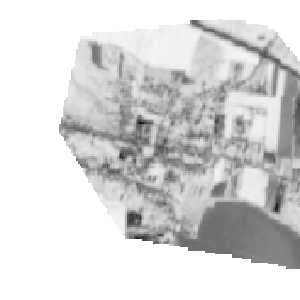
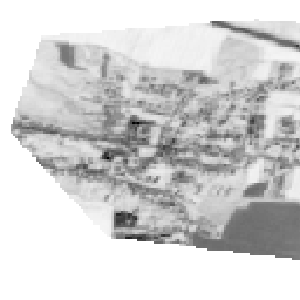
Normalize raster in native CRS

diff --git a/tests/static_data/__init__.py b/tests/static_data/__init__.py
@@ -284,7 +284,7 @@ PUBLICATIONS = {
             {'file_paths': ['sample/layman.layer/sample_tif_rgba_4326.tif', ]},
         ],
         TEST_DATA: {
-            'bbox': (1679391.075, 6562360.437, 1679416.269, 6562381.831),
+            'bbox': (1679391.075, 6562360.443, 1679416.256, 6562381.831),
             'file_extensions': ['.tif'],
             'normalized_color_interp': ['Red', 'Green', 'Blue', 'Alpha'],
             'thumbnail': '/code/test_tools/data/thumbnail/raster_layer_tif_rgba_4326.png',
@@ -343,7 +343,7 @@ PUBLICATIONS = {
             {'file_paths': ['sample/layman.layer/sample_tif_colortable_nodata_opaque_4326.tif']},
         ],
         TEST_DATA: {
-            'bbox': (868376.00, 522145.76, 940600.68, 593255.00),
+            'bbox': (868375.99, 522100.63, 940557.77, 593254.99),
             'file_extensions': ['.tif'],
             'normalized_color_interp': ['Palette'],
             'thumbnail': '/code/test_tools/data/thumbnail/raster_layer_tif_colortable_nodata_opaque_4326.png',
@@ -383,7 +383,7 @@ PUBLICATIONS = {
             {'file_paths': ['sample/layman.layer/sample_tif_grayscale_alpha_nodata_4326.tif']},
         ],
         TEST_DATA: {
-            'bbox': (1823049.06, 6309995.31, 1826920.44, 6312703.75),
+            'bbox': (1823049.05, 6310001.12, 1826924.71, 6312703.74),
             'file_extensions': ['.tif'],
             'normalized_color_interp': ['Gray', 'Alpha'],
             'thumbnail': '/code/test_tools/data/thumbnail/raster_layer_tif_grayscale_alpha_nodata_4326.png',

diff --git a/src/layman/layer/filesystem/gdal.py b/src/layman/layer/filesystem/gdal.py
@@ -235,30 +235,19 @@ def normalize_raster_file_async(input_path, crs_id, output_file):
             bash_args.extend([
                 '-co', 'ALPHA=YES',
             ])
-    # if output EPSG is the same as input EPSG, set pixel size (-tr) explicitly to the value of input
-    input_crs_equals_output_crs = crs_id == "EPSG:3857" or \
-        (crs_id is None and input_file.get_raster_crs_id(input_path) == "EPSG:3857")
-    if input_crs_equals_output_crs:
-        pixel_size = get_pixel_size(input_path)
-        tr_list = [str(ps) for ps in pixel_size]
-        tr_list.insert(0, '-tr')
-        bash_args.extend(tr_list)
+    pixel_size = get_pixel_size(input_path)
+    tr_list = [str(ps) for ps in pixel_size]
+    tr_list.insert(0, '-tr')
+    bash_args.extend(tr_list)
     if crs_id is not None:
         bash_args.extend([
             '-s_srs', f'{crs_id}',
         ])
-    # resampling method
-    if input_crs_equals_output_crs:
-        resampling_method = 'nearest'
-    elif color_interp == ['Palette']:
-        resampling_method = 'mode'
-    else:
-        resampling_method = 'bilinear'
+    resampling_method = 'nearest'
     bash_args.extend([
         '-r', resampling_method,
     ])
     bash_args.extend([
-        '-t_srs', 'EPSG:3857',
         input_path,
         output_file,
     ])

diff --git a/tests/static_data/single_publication/publications_test.py b/tests/static_data/single_publication/publications_test.py
@@ -1,6 +1,8 @@
 import pytest
 
+import crs as crs_def
 from layman import app, util as layman_util, settings
+from layman.common import bbox as bbox_util
 from layman.layer.filesystem import gdal
 from test_tools import assert_util, process_client
 from .. import util
@@ -118,8 +120,10 @@ def test_info(workspace, publ_type, publication):
 
         file_type = data.PUBLICATIONS[(workspace, publ_type, publication)][data.TEST_DATA].get('file_type')
         if file_type == settings.FILE_TYPE_RASTER:
-            bbox = gdal.get_bbox(workspace, publication)
-            assert_util.assert_same_bboxes(bbox, exp_bbox, 0.01)
+            native_bbox = gdal.get_bbox(workspace, publication)
+            with app.app_context():
+                bbox_3857 = bbox_util.transform(native_bbox, info['native_crs'], crs_def.EPSG_3857)
+            assert_util.assert_same_bboxes(bbox_3857, exp_bbox, 0.01)
 
 
 @pytest.mark.parametrize('workspace, publ_type, publication', data.LIST_ALL_PUBLICATIONS)
